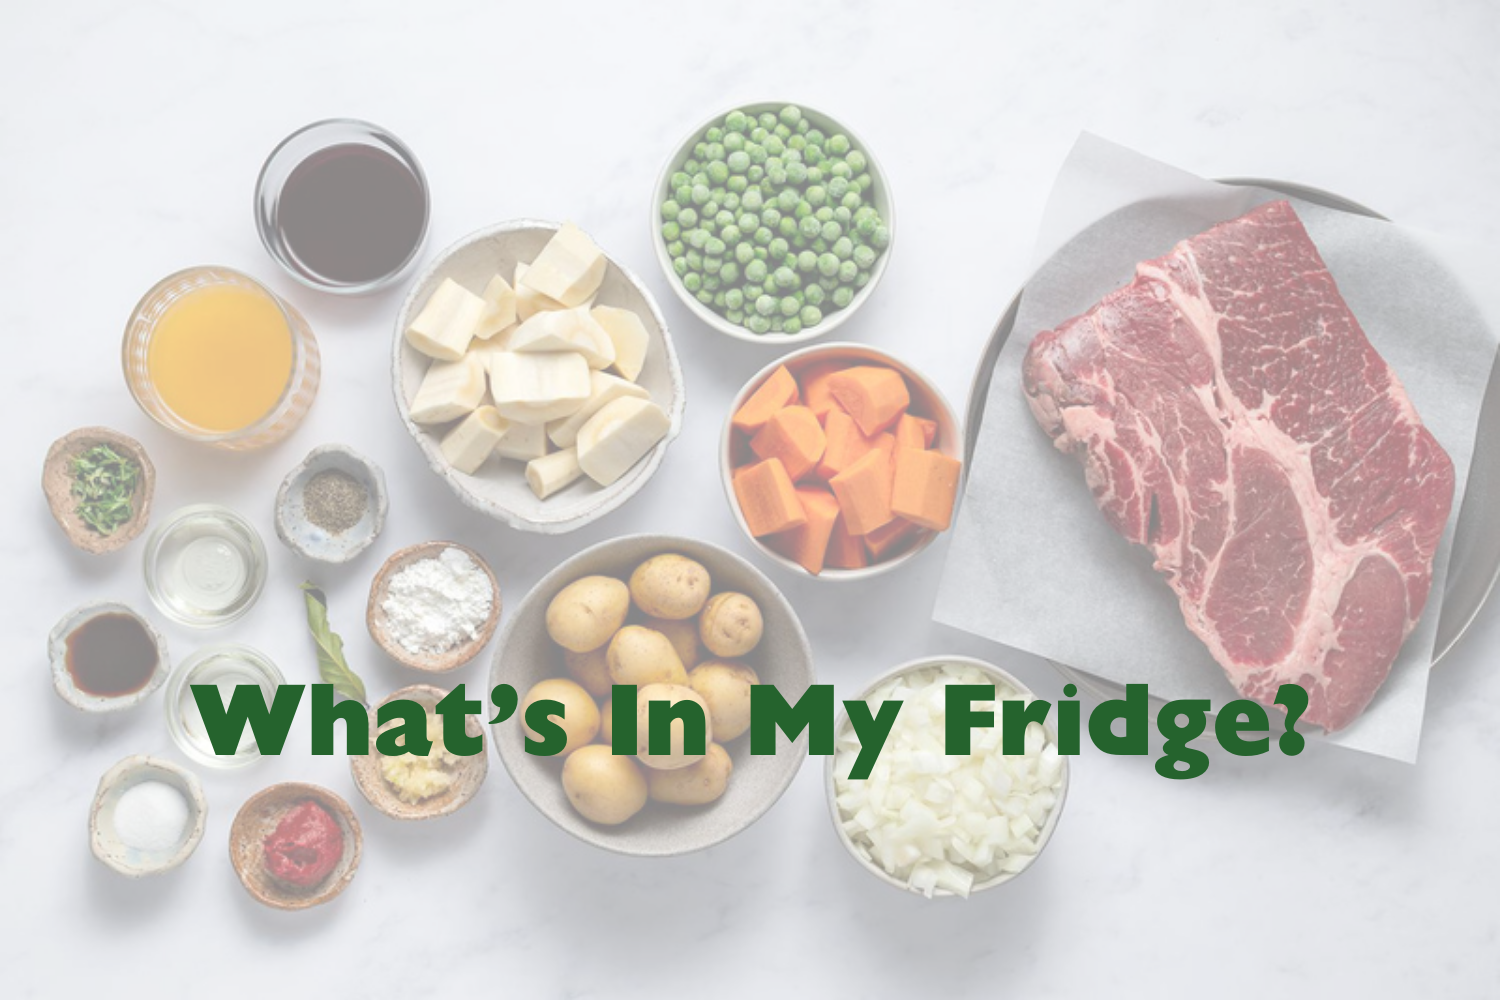
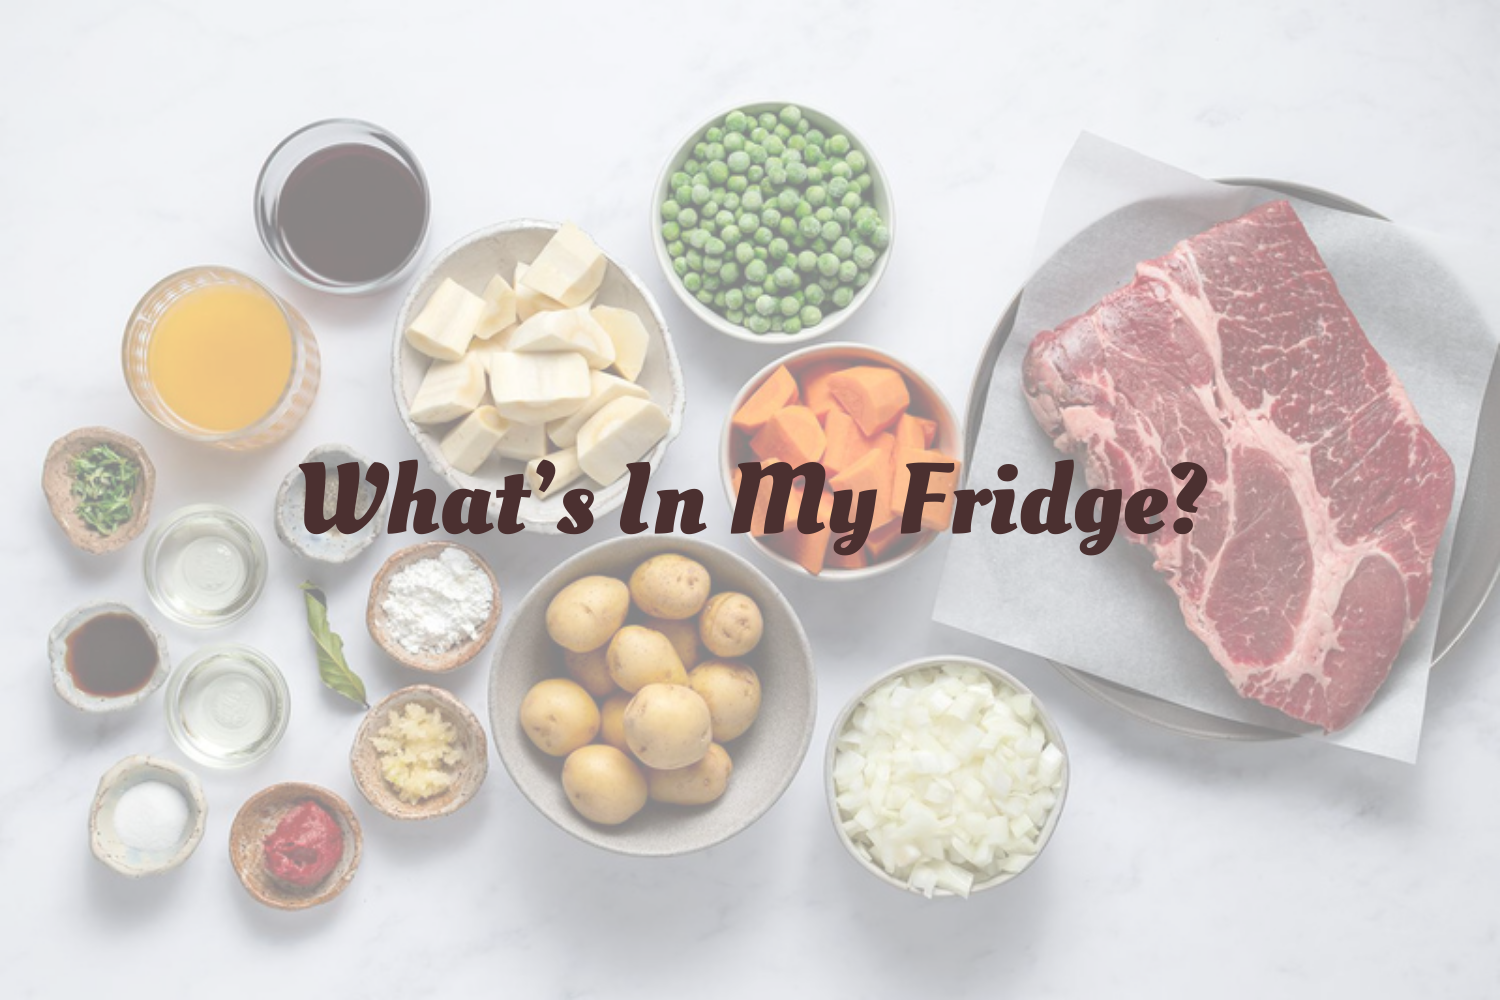
fixed homepage

Changed region(s): [[0.1227, 0.682, 0.8893, 0.775], [0.184, 0.465, 0.828, 0.558]]

diff --git a/client/styles.css/main.css b/client/styles.css/main.css
@@ -1,9 +1,10 @@
-html, body {
-/* background-color: rgb(250, 250, 243); */
-background-color: 000000;
-font-family: 'ADLaM Display', cursive;
-color: rgb(75, 48, 48);
-margin: 0;
+html,
+body {
+  /* background-color: rgb(250, 250, 243); */
+  background-color: 000000;
+  font-family: 'ADLaM Display', cursive;
+  color: rgb(75, 48, 48);
+  margin: 0;
 }
 
 :active {
@@ -17,34 +18,33 @@ margin: 0;
   /* width: 40%; */
   justify-content: flex-end;
   align-items: end;
-  font-size: medium;
+  font-size: 2dvh;
   text-decoration: none;
 }
 
-li{
+li {
   list-style: none;
   padding: 15px;
   text-decoration: none;
 }
 
-.link{
+.link {
   text-decoration: none;
   color: rgb(75, 48, 48);
   font-weight: 400;
 }
 .head-logo {
   z-index: 1;
-  max-width: 10%;
+  max-width: 15%;
   border-radius: 80%;
   padding-left: 15px;
 }
 
 .logo-container {
-display: flex;
-justify-content: space-between;
-padding: 10px;
+  display: flex;
+  justify-content: space-between;
+  padding: 10px;
 }
-
 
 header {
   background-color: #fadad0;
@@ -59,8 +59,10 @@ header {
 .item-image {
   max-width: 15%;
   object-fit: cover;
+  border-radius: 70%;
 }
 
 .home-image {
-  max-width: 100%;
+  width: 100%;
+  height: auto;
 }

diff --git a/client/components/App.tsx b/client/components/App.tsx
@@ -8,7 +8,7 @@ const App = () => {
   return (
     <>
       <Header />
-      <img className="home-image" src="./client/images/home-image.png" />
+
       {!list && <Home />}
       {list && <List />}
     </>

diff --git a/client/components/Home.tsx b/client/components/Home.tsx
@@ -1,3 +1,3 @@
 export function Home() {
-  return 'Welcome to WIMF!'
+  return <img className="home-image" src="./client/images/home-image.png" />
 }
